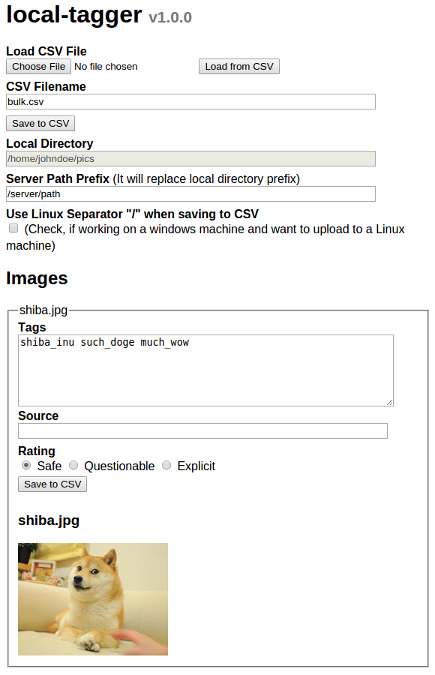
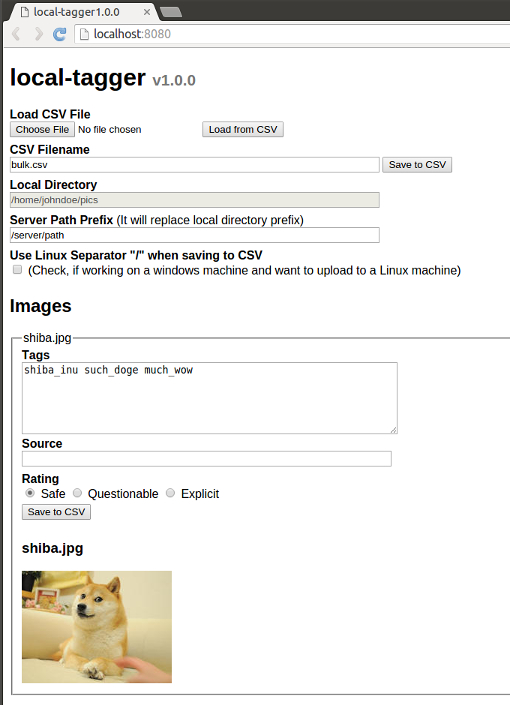
Change usage doc image

Changed region(s): [[0.0, 0.0, 1.0, 1.0], [0.4483, 0.0933, 0.6575, 0.1244], [0.8667, 0.6222, 0.8966, 0.6533]]

diff --git a/README.md b/README.md
@@ -19,11 +19,12 @@ the images to Shimmie2.
 * Download the latest [release](https://github.com/kusubooru/local-tagger/releases) for your system and extract.
 * Place the executable into a folder with images and launch.
 * Tag your images.
-
-![Usage image](doc/usage.jpg)
-
 * Make sure to fill the 'server path prefix' input with the upload location on
   your server and then click 'Save to CSV'.
+
+### Screenshot
+![Usage image](doc/usage.jpg)
+
 
 ### Command Line Options
 ```sh-session
